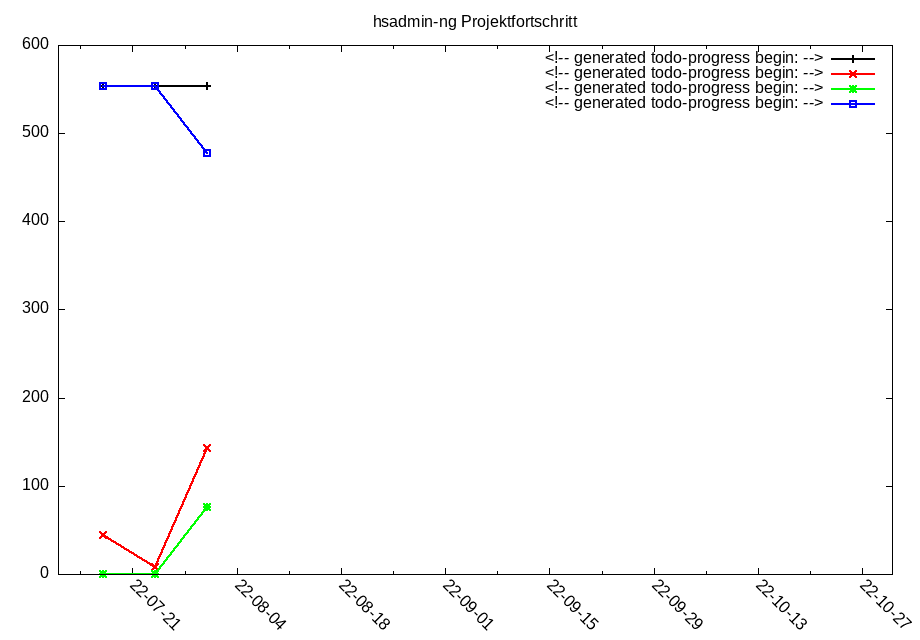
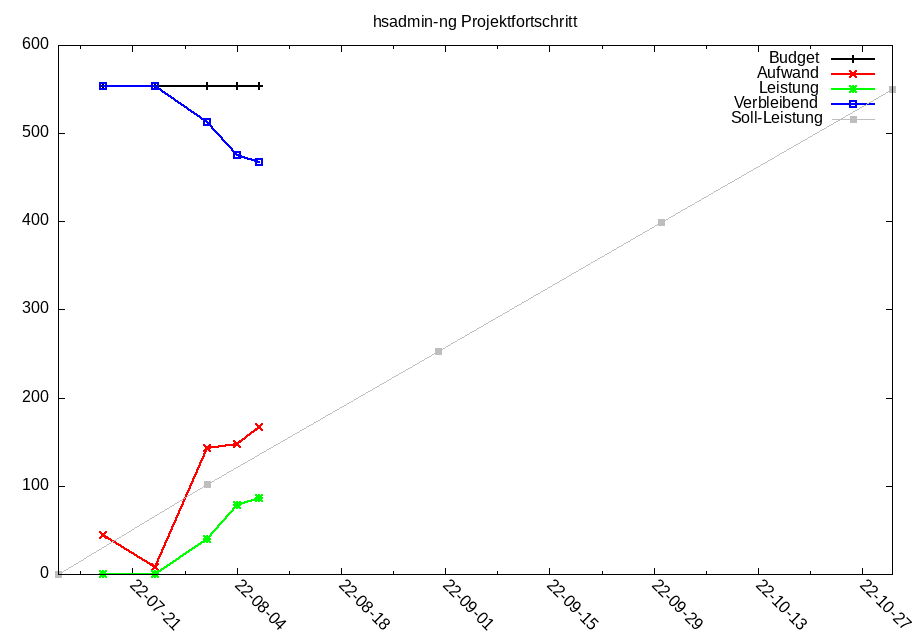
progress status as of 2022-08-07

diff --git a/TODO.md b/TODO.md
@@ -7,10 +7,10 @@ This document is just for tracking the initial development project and thus only
 
 | ID  | Beschreibung                                                |  Budget | Aufwand | Leistung |
 |:----|:------------------------------------------------------------|--------:|--------:|---------:|
-| PRE | Vorbesprechungen bis inkl. KickOff-Meeting                  |       8 |       4 |        4 |
-| PRJ | Zweiwöchige Projektbesprechungen                            |      12 |       2 |        2 |
+| PRE | Vorbesprechungen bis inkl. KickOff-Meeting                  |       8 |       8 |        8 |
+| PRJ | Zweiwöchige Projektbesprechungen                            |      12 |       3 |        3 |
 | RET | Vierwöchige Retrospektiven (optional)                       |       6 |         |          |
-| TRA | Einarbeitung von Mitarbeitern des Auftraggebers (Training)  |      12 |         |          |
+| TRA | Einarbeitung von Mitarbeitern des Auftraggebers (Training)  |      12 |       2 |        2 |
 | E2E | Unterstützung beim Aufbau der E2E-System-Integrations-Tests |      40 |         |          |
 | MIG | Unterstützung bei der Datenmigration                        |      16 |         |          |
 | INS | Unterstützung ei der Inbetriebnahme / Einführung            |      16 |         |          |
@@ -88,6 +88,7 @@ In der folgenden Tabelle sind Aufwand und Leistung akkumulierte Werte.
 | 2022-07-24 |    553 |       8 |        0 |         553 |
 | 2022-07-31 |    553 |     143 |       40 |         513 |
 | 2022-08-04 |    553 |     147 |       78 |         475 |
+| 2022-08-07 |    553 |     167 |       86 |         467 |
 <!-- generated todo-progress end. -->
 
 
